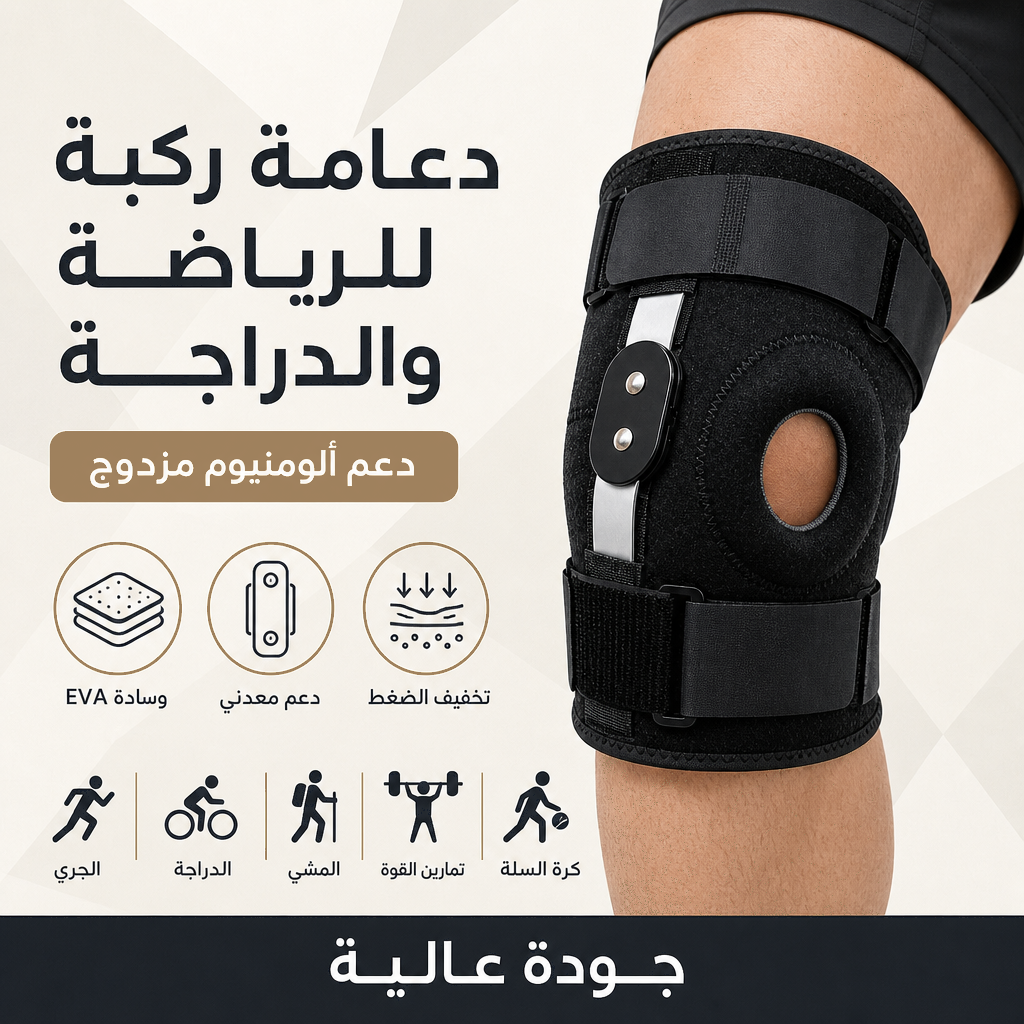
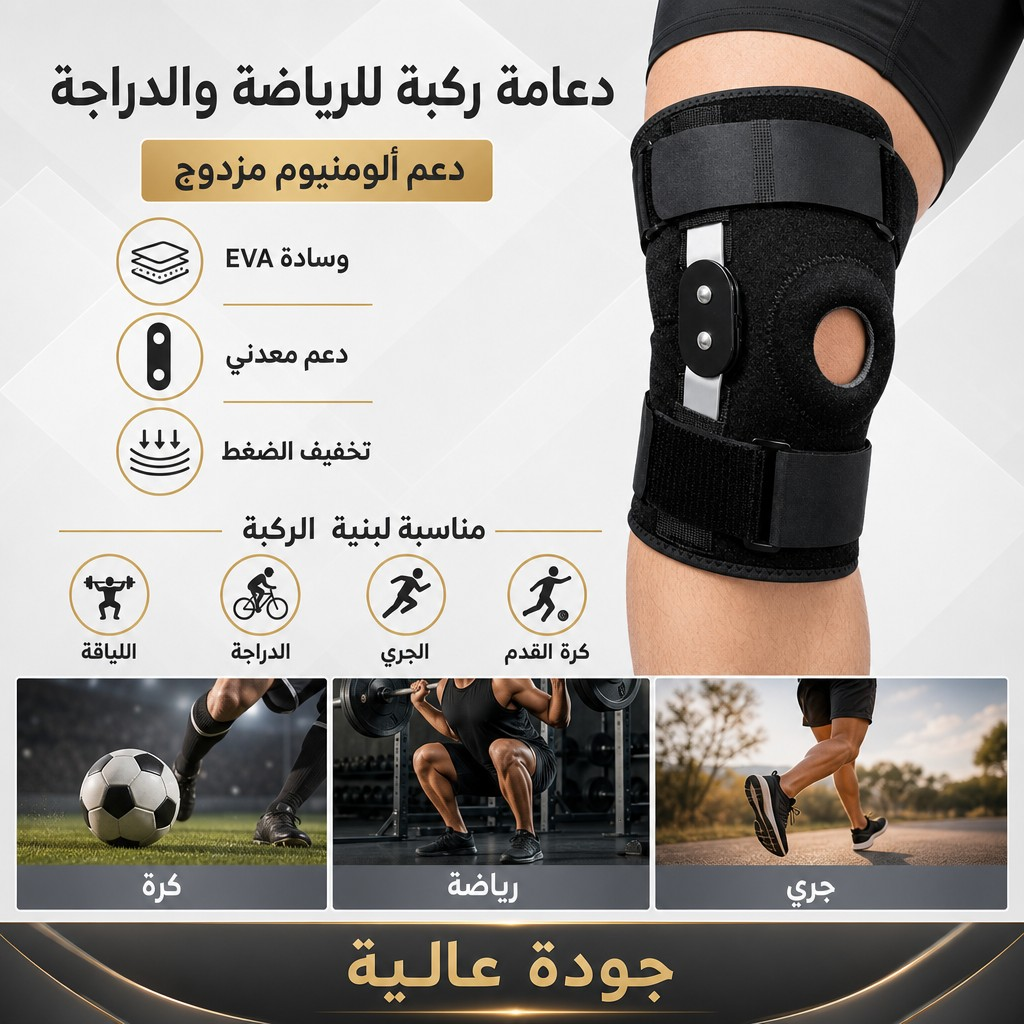
Lead daamat-rukba gallery with before/after then sports features.
Put problem-solution creative first, followed by the Arabic sports infographic and remaining product shots.

diff --git a/config/niches/comfort/catalog.ts b/config/niches/comfort/catalog.ts
@@ -36,15 +36,15 @@ const products: Product[] = [
     mechanism:
       "الصفيحتان المعدنيتان القابلتان للطي على الجانبين كتوزّع الحمل على محيط الركبة وكتمنع الحركات الجانبية الخاطئة. وسادة EVA حول الرضفة كتمتص الصدمات بشكل مباشر. الأحزمة المرنة كتوزّع الضغط باش ما يكونش ثقيل في نقطة واحدة — بلا وعود علاجية.",
     eyebrow: "VORLAY · دعامة معدنية للركبة · الدفع عند الاستلام",
-    image: staticProductImage("knee-hero.png"),
+    image: staticProductImage("knee-before-after.png"),
     heroImageFit: "contain",
     carouselImageFit: "contain",
     quantityUnit: "piece",
     images: [
-      staticProductImage("knee-hero.png"),
       staticProductImage("knee-before-after.png"),
-      staticProductImage("knee-features-numbered.png"),
       staticProductImage("knee-infographic.png"),
+      staticProductImage("knee-hero.png"),
+      staticProductImage("knee-features-numbered.png"),
       staticProductImage("knee-hinges-story.png"),
       staticProductImage("knee-buckle-story.png"),
       staticProductImage("knee-features-ar.png"),
@@ -54,8 +54,8 @@ const products: Product[] = [
     ],
     afterPainImage: staticProductImage("knee-before-after.png"),
     storyImages: [
-      staticProductImage("knee-hinges-story.png"),
       staticProductImage("knee-infographic.png"),
+      staticProductImage("knee-hinges-story.png"),
       staticProductImage("knee-buckle-story.png"),
       staticProductImage("knee-features-ar.png"),
       staticProductImage("knee-how-to-wear.png"),
